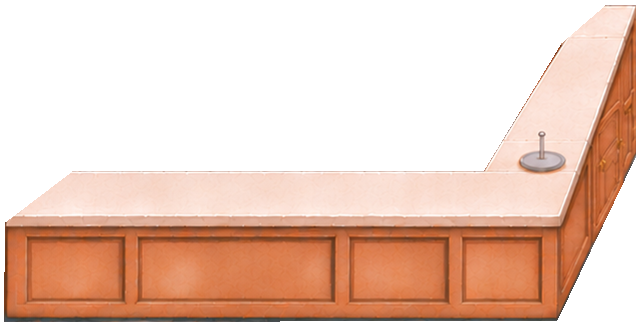
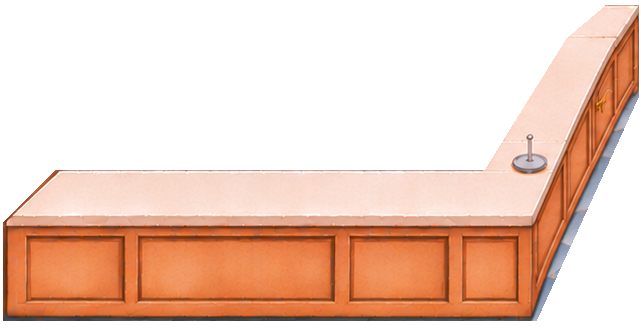
v2026-11-27-3 Suzhou restaurant release

Changed region(s): [[0.0, 0.0, 0.9984, 1.0], [0.8424, 0.1515, 0.8736, 0.2424], [0.8112, 0.2424, 0.8424, 0.3333]]

diff --git a/docs/index.html b/docs/index.html
@@ -1838,7 +1838,7 @@ if (typeof module !== 'undefined') module.exports = { iconSVG, fishSVG, FISH };
 
 </script>
 <script>
-const PENPEN_LAYOUT = {"version":1,"space":{"w":1280,"h":720},"source":{"image":"assets/09-母稿草稿/G-058/room_suzhou_level_spring.png","w":1813,"h":868,"crop":{"x":0,"y":0,"w":1813,"h":868}},"scene":{"width":1280,"height":613,"window":[342,53,579,183],"doorPatch":[955,16,269,416],"threshold":[[1010,321],[1174,395]],"walkArea":[[0,528],[83,423],[106,382],[188,282],[917,282],[973,311],[1000,280],[1169,274],[1175,345],[1202,410],[1280,452],[1280,613],[0,613]],"dance":[662,572],"windowSource":[480,67,830,266],"counterForeground":[16,427],"footClearance":6},"presets":{"two":["table.1","table.3"],"five":["table.1","table.2","table.3","table.4","table.5"]},"notes":"G-057 三后两前的室内桌位。方桌巾透视沿椭圆桌边。座位、椅背遮挡与端菜靠逻辑坐标；墙、两排柜体与假门依原首店操作。","items":[{"id":"table.1","kind":"table","anchor":[563,459],"seats":2,"scale":0.96,"hit":{"x":507,"y":405,"w":112,"h":121},"stand":[[634,463]],"footprint":[[528.76,445],[597.24,445],[605.24,473],[605.24,504],[598.24,513],[527.76,513],[520.76,504],[520.76,473]],"seatPos":[[587,447.48],[536.12,490.68]],"chip":[614,417]},{"id":"table.2","kind":"table","anchor":[785,459],"seats":2,"scale":0.96,"hit":{"x":729,"y":405,"w":112,"h":121},"stand":[[852,470]],"footprint":[[750.76,445],[819.24,445],[827.24,473],[827.24,504],[820.24,513],[749.76,513],[742.76,504],[742.76,473]],"seatPos":[[761,447.48],[811.88,490.68]],"chip":[836,417]},{"id":"table.3","kind":"table","anchor":[855,314],"seats":4,"scale":0.92,"hit":{"x":773,"y":260,"w":164,"h":121},"stand":[[961,340]],"footprint":[[797.68,300],[912.32,300],[920.32,328],[920.32,359],[913.32,368],[796.68,368],[789.68,359],[789.68,328]],"seatPos":[[822.8,303.88],[887.2,303.88],[812.68,345.28],[897.32,345.28]],"chip":[922,272]},{"id":"table.4","kind":"table","anchor":[604,314],"seats":4,"scale":0.92,"hit":{"x":522,"y":260,"w":164,"h":121},"stand":[[713,340]],"footprint":[[546.68,300],[661.32,300],[669.32,328],[669.32,359],[662.32,368],[545.68,368],[538.68,359],[538.68,328]],"seatPos":[[571.8,303.88],[636.2,303.88],[561.68,345.28],[646.32,345.28]],"chip":[671,272]},{"id":"table.5","kind":"table","anchor":[1000,459],"seats":2,"scale":0.96,"hit":{"x":944,"y":405,"w":112,"h":121},"stand":[[1063,489]],"footprint":[[965.76,445],[1034.24,445],[1042.24,473],[1042.24,504],[1035.24,513],[964.76,513],[957.76,504],[957.76,473]],"seatPos":[[976,447.48],[1026.88,490.68]],"chip":[1051,417]},{"id":"queue.1","kind":"queue","anchor":[1190,445],"stand":[[1130,462]],"zone":"inside"},{"id":"queue.2","kind":"queue","anchor":[1230,475],"stand":[[1170,491]],"zone":"inside"},{"id":"queue.3","kind":"queue","anchor":[1205,519],"stand":[[1145,523]],"zone":"inside"},{"id":"queue.4","kind":"queue","anchor":[1240,559],"stand":[[1182,559]],"zone":"inside"},{"id":"queue.5","kind":"queue","anchor":[1150,311],"stand":[[1110,338]],"zone":"outside"},{"id":"queue.6","kind":"queue","anchor":[1100,300],"stand":[[1070,333]],"zone":"outside"},{"id":"door","kind":"door","anchor":[1070,324],"stand":[[1070,324]],"hit":{"x":972,"y":126,"w":223,"h":275}},{"id":"stove.wok","kind":"stove","anchor":[218,319],"hit":{"x":194,"y":293,"w":48,"h":42}},{"id":"stove.pot","kind":"stove","anchor":[282,319],"hit":{"x":258,"y":293,"w":48,"h":42}},{"id":"stove.steamer","kind":"stove","anchor":[345,319],"hit":{"x":321,"y":293,"w":48,"h":42}},{"id":"stove.clay","kind":"stove","anchor":[406,319],"hit":{"x":382,"y":293,"w":48,"h":42}},{"id":"chef","kind":"chef","anchor":[213,430],"stand":[[213,430]],"range":[[149,430],[367,430]],"wash":[150,430]},{"id":"pass","kind":"pass","anchor":[413,367],"stand":[[488,410]],"slots":[[430,337],[423,351],[416,367],[409,385],[401,400]],"hit":{"x":370,"y":306,"w":96,"h":127},"label":[434,320]},{"id":"sink","kind":"sink","anchor":[146,313],"stand":[[190,310]],"hit":{"x":110,"y":275,"w":74,"h":68}},{"id":"rail","kind":"rail","anchor":[390,420],"spike":[390,420],"hit":{"x":363,"y":393,"w":70,"h":65}},{"id":"menurack","kind":"menurack","anchor":[955,175],"hit":{"x":926,"y":159,"w":65,"h":127}},{"id":"tea","kind":"tea","anchor":[290,451],"stand":[[278,562]],"hit":{"x":250,"y":409,"w":77,"h":63}},{"id":"teacart","kind":"tea","anchor":[215,451],"stand":[[190,563]],"hit":{"x":126,"y":406,"w":128,"h":71},"needs":["tea","snack"]},{"id":"idle.penpen","kind":"idle","anchor":[681,393],"stand":[[681,393]]},{"id":"staff.laoer","kind":"staff","anchor":[717,513],"stand":[[717,513]],"rest":[702,570]},{"id":"staff.mimi","kind":"staff","anchor":[1110,569],"stand":[[1110,569]],"rest":[1090,585]},{"id":"wall.heater","kind":"wall","season":"winter","footprint":[[345,282],[404,282],[404,298],[345,298]]},{"id":"wall.kitchen","kind":"wall","footprint":[[104,323],[461,323],[464,407],[406,529],[13,529],[13,475],[75,426],[105,385]]}]};
+const PENPEN_LAYOUT = {"version":1,"space":{"w":1280,"h":720},"source":{"image":"assets/09-母稿草稿/G-059/room_suzhou_counter_spring.png","w":1813,"h":868,"crop":{"x":0,"y":0,"w":1813,"h":868}},"scene":{"width":1280,"height":613,"window":[342,53,579,183],"doorPatch":[955,16,269,416],"threshold":[[1010,321],[1174,395]],"walkArea":[[0,528],[83,423],[106,382],[188,282],[917,282],[973,311],[1000,280],[1169,274],[1175,345],[1202,410],[1280,452],[1280,613],[0,613]],"dance":[662,572],"windowSource":[480,67,830,266],"counterForeground":[16,427],"footClearance":6,"paintRevision":"g059"},"presets":{"two":["table.1","table.3"],"five":["table.1","table.2","table.3","table.4","table.5"]},"notes":"G-057 三后两前的室内桌位。方桌巾透视沿椭圆桌边。座位、椅背遮挡与端菜靠逻辑坐标；墙、两排柜体与假门依原首店操作。","items":[{"id":"table.1","kind":"table","anchor":[563,459],"seats":2,"scale":0.96,"hit":{"x":507,"y":405,"w":112,"h":121},"stand":[[634,463]],"footprint":[[528.76,445],[597.24,445],[605.24,473],[605.24,504],[598.24,513],[527.76,513],[520.76,504],[520.76,473]],"seatPos":[[587,447.48],[536.12,490.68]],"chip":[614,417]},{"id":"table.2","kind":"table","anchor":[785,459],"seats":2,"scale":0.96,"hit":{"x":729,"y":405,"w":112,"h":121},"stand":[[852,470]],"footprint":[[750.76,445],[819.24,445],[827.24,473],[827.24,504],[820.24,513],[749.76,513],[742.76,504],[742.76,473]],"seatPos":[[761,447.48],[811.88,490.68]],"chip":[836,417]},{"id":"table.3","kind":"table","anchor":[855,314],"seats":4,"scale":0.92,"hit":{"x":773,"y":260,"w":164,"h":121},"stand":[[961,340]],"footprint":[[797.68,300],[912.32,300],[920.32,328],[920.32,359],[913.32,368],[796.68,368],[789.68,359],[789.68,328]],"seatPos":[[822.8,303.88],[887.2,303.88],[812.68,345.28],[897.32,345.28]],"chip":[922,272]},{"id":"table.4","kind":"table","anchor":[604,314],"seats":4,"scale":0.92,"hit":{"x":522,"y":260,"w":164,"h":121},"stand":[[713,340]],"footprint":[[546.68,300],[661.32,300],[669.32,328],[669.32,359],[662.32,368],[545.68,368],[538.68,359],[538.68,328]],"seatPos":[[571.8,303.88],[636.2,303.88],[561.68,345.28],[646.32,345.28]],"chip":[671,272]},{"id":"table.5","kind":"table","anchor":[1000,459],"seats":2,"scale":0.96,"hit":{"x":944,"y":405,"w":112,"h":121},"stand":[[1063,489]],"footprint":[[965.76,445],[1034.24,445],[1042.24,473],[1042.24,504],[1035.24,513],[964.76,513],[957.76,504],[957.76,473]],"seatPos":[[976,447.48],[1026.88,490.68]],"chip":[1051,417]},{"id":"queue.1","kind":"queue","anchor":[1190,445],"stand":[[1130,462]],"zone":"inside"},{"id":"queue.2","kind":"queue","anchor":[1230,475],"stand":[[1170,491]],"zone":"inside"},{"id":"queue.3","kind":"queue","anchor":[1205,519],"stand":[[1145,523]],"zone":"inside"},{"id":"queue.4","kind":"queue","anchor":[1240,559],"stand":[[1182,559]],"zone":"inside"},{"id":"queue.5","kind":"queue","anchor":[1150,311],"stand":[[1110,338]],"zone":"outside"},{"id":"queue.6","kind":"queue","anchor":[1100,300],"stand":[[1070,333]],"zone":"outside"},{"id":"door","kind":"door","anchor":[1070,324],"stand":[[1070,324]],"hit":{"x":972,"y":126,"w":223,"h":275}},{"id":"stove.wok","kind":"stove","anchor":[218,319],"hit":{"x":194,"y":293,"w":48,"h":42}},{"id":"stove.pot","kind":"stove","anchor":[282,319],"hit":{"x":258,"y":293,"w":48,"h":42}},{"id":"stove.steamer","kind":"stove","anchor":[345,319],"hit":{"x":321,"y":293,"w":48,"h":42}},{"id":"stove.clay","kind":"stove","anchor":[406,319],"hit":{"x":382,"y":293,"w":48,"h":42}},{"id":"chef","kind":"chef","anchor":[213,430],"stand":[[213,430]],"range":[[149,430],[367,430]],"wash":[150,430]},{"id":"pass","kind":"pass","anchor":[413,367],"stand":[[488,410]],"slots":[[430,337],[423,351],[416,367],[409,385],[401,400]],"hit":{"x":370,"y":306,"w":96,"h":127},"label":[434,320]},{"id":"sink","kind":"sink","anchor":[146,313],"stand":[[190,310]],"hit":{"x":110,"y":275,"w":74,"h":68}},{"id":"rail","kind":"rail","anchor":[390,420],"spike":[390,420],"hit":{"x":363,"y":393,"w":70,"h":65}},{"id":"menurack","kind":"menurack","anchor":[955,175],"hit":{"x":926,"y":159,"w":65,"h":127}},{"id":"tea","kind":"tea","anchor":[290,451],"stand":[[278,562]],"hit":{"x":250,"y":409,"w":77,"h":63}},{"id":"teacart","kind":"tea","anchor":[215,451],"stand":[[190,563]],"hit":{"x":126,"y":406,"w":128,"h":71},"needs":["tea","snack"]},{"id":"idle.penpen","kind":"idle","anchor":[681,393],"stand":[[681,393]]},{"id":"staff.laoer","kind":"staff","anchor":[717,513],"stand":[[717,513]],"rest":[702,570]},{"id":"staff.mimi","kind":"staff","anchor":[1110,569],"stand":[[1110,569]],"rest":[1090,585]},{"id":"wall.heater","kind":"wall","season":"winter","footprint":[[345,282],[404,282],[404,298],[345,298]]},{"id":"wall.kitchen","kind":"wall","footprint":[[104,323],[461,323],[462,368],[391,529],[13,529],[13,475],[75,426],[105,385]]}]};
 const PENPEN_GREYBOX = false;
 const PENPEN_SUZHOU = true;
 const PENPEN_SUZHOU_PREVIEW = false;
@@ -3341,10 +3341,12 @@ const PENPEN_SUZHOU_PREVIEW = false;
   }
   const ART_ROOM = () => ok(A('room_courtyard'));
   const GARDEN_ART = new Map();
+  const GARDEN_ROOM_PAINT = new Set(['spring', 'winter', 'counter_spring', 'counter_winter', 'counter_rear_spring', 'counter_rear_winter']);
   function gardenArt(name, extension = 'png') {
     if (!GARDEN_ART.has(name)) {
       const im = new Image();
-      im.src = 'assets/suzhou/' + name + '.' + extension;
+      const version = GARDEN_ROOM_PAINT.has(name) ? LAYOUT?.scene.paintRevision : null;
+      im.src = 'assets/suzhou/' + name + '.' + extension + (version ? '?v=' + version : '');
       GARDEN_ART.set(name, im);
     }
     return GARDEN_ART.get(name);

diff --git a/docs/suzhou.html b/docs/suzhou.html
@@ -1838,7 +1838,7 @@ if (typeof module !== 'undefined') module.exports = { iconSVG, fishSVG, FISH };
 
 </script>
 <script>
-const PENPEN_LAYOUT = {"version":1,"space":{"w":1280,"h":720},"source":{"image":"assets/09-母稿草稿/G-058/room_suzhou_level_spring.png","w":1813,"h":868,"crop":{"x":0,"y":0,"w":1813,"h":868}},"scene":{"width":1280,"height":613,"window":[342,53,579,183],"doorPatch":[955,16,269,416],"threshold":[[1010,321],[1174,395]],"walkArea":[[0,528],[83,423],[106,382],[188,282],[917,282],[973,311],[1000,280],[1169,274],[1175,345],[1202,410],[1280,452],[1280,613],[0,613]],"dance":[662,572],"windowSource":[480,67,830,266],"counterForeground":[16,427],"footClearance":6},"presets":{"two":["table.1","table.3"],"five":["table.1","table.2","table.3","table.4","table.5"]},"notes":"G-057 三后两前的室内桌位。方桌巾透视沿椭圆桌边。座位、椅背遮挡与端菜靠逻辑坐标；墙、两排柜体与假门依原首店操作。","items":[{"id":"table.1","kind":"table","anchor":[563,459],"seats":2,"scale":0.96,"hit":{"x":507,"y":405,"w":112,"h":121},"stand":[[634,463]],"footprint":[[528.76,445],[597.24,445],[605.24,473],[605.24,504],[598.24,513],[527.76,513],[520.76,504],[520.76,473]],"seatPos":[[587,447.48],[536.12,490.68]],"chip":[614,417]},{"id":"table.2","kind":"table","anchor":[785,459],"seats":2,"scale":0.96,"hit":{"x":729,"y":405,"w":112,"h":121},"stand":[[852,470]],"footprint":[[750.76,445],[819.24,445],[827.24,473],[827.24,504],[820.24,513],[749.76,513],[742.76,504],[742.76,473]],"seatPos":[[761,447.48],[811.88,490.68]],"chip":[836,417]},{"id":"table.3","kind":"table","anchor":[855,314],"seats":4,"scale":0.92,"hit":{"x":773,"y":260,"w":164,"h":121},"stand":[[961,340]],"footprint":[[797.68,300],[912.32,300],[920.32,328],[920.32,359],[913.32,368],[796.68,368],[789.68,359],[789.68,328]],"seatPos":[[822.8,303.88],[887.2,303.88],[812.68,345.28],[897.32,345.28]],"chip":[922,272]},{"id":"table.4","kind":"table","anchor":[604,314],"seats":4,"scale":0.92,"hit":{"x":522,"y":260,"w":164,"h":121},"stand":[[713,340]],"footprint":[[546.68,300],[661.32,300],[669.32,328],[669.32,359],[662.32,368],[545.68,368],[538.68,359],[538.68,328]],"seatPos":[[571.8,303.88],[636.2,303.88],[561.68,345.28],[646.32,345.28]],"chip":[671,272]},{"id":"table.5","kind":"table","anchor":[1000,459],"seats":2,"scale":0.96,"hit":{"x":944,"y":405,"w":112,"h":121},"stand":[[1063,489]],"footprint":[[965.76,445],[1034.24,445],[1042.24,473],[1042.24,504],[1035.24,513],[964.76,513],[957.76,504],[957.76,473]],"seatPos":[[976,447.48],[1026.88,490.68]],"chip":[1051,417]},{"id":"queue.1","kind":"queue","anchor":[1190,445],"stand":[[1130,462]],"zone":"inside"},{"id":"queue.2","kind":"queue","anchor":[1230,475],"stand":[[1170,491]],"zone":"inside"},{"id":"queue.3","kind":"queue","anchor":[1205,519],"stand":[[1145,523]],"zone":"inside"},{"id":"queue.4","kind":"queue","anchor":[1240,559],"stand":[[1182,559]],"zone":"inside"},{"id":"queue.5","kind":"queue","anchor":[1150,311],"stand":[[1110,338]],"zone":"outside"},{"id":"queue.6","kind":"queue","anchor":[1100,300],"stand":[[1070,333]],"zone":"outside"},{"id":"door","kind":"door","anchor":[1070,324],"stand":[[1070,324]],"hit":{"x":972,"y":126,"w":223,"h":275}},{"id":"stove.wok","kind":"stove","anchor":[218,319],"hit":{"x":194,"y":293,"w":48,"h":42}},{"id":"stove.pot","kind":"stove","anchor":[282,319],"hit":{"x":258,"y":293,"w":48,"h":42}},{"id":"stove.steamer","kind":"stove","anchor":[345,319],"hit":{"x":321,"y":293,"w":48,"h":42}},{"id":"stove.clay","kind":"stove","anchor":[406,319],"hit":{"x":382,"y":293,"w":48,"h":42}},{"id":"chef","kind":"chef","anchor":[213,430],"stand":[[213,430]],"range":[[149,430],[367,430]],"wash":[150,430]},{"id":"pass","kind":"pass","anchor":[413,367],"stand":[[488,410]],"slots":[[430,337],[423,351],[416,367],[409,385],[401,400]],"hit":{"x":370,"y":306,"w":96,"h":127},"label":[434,320]},{"id":"sink","kind":"sink","anchor":[146,313],"stand":[[190,310]],"hit":{"x":110,"y":275,"w":74,"h":68}},{"id":"rail","kind":"rail","anchor":[390,420],"spike":[390,420],"hit":{"x":363,"y":393,"w":70,"h":65}},{"id":"menurack","kind":"menurack","anchor":[955,175],"hit":{"x":926,"y":159,"w":65,"h":127}},{"id":"tea","kind":"tea","anchor":[290,451],"stand":[[278,562]],"hit":{"x":250,"y":409,"w":77,"h":63}},{"id":"teacart","kind":"tea","anchor":[215,451],"stand":[[190,563]],"hit":{"x":126,"y":406,"w":128,"h":71},"needs":["tea","snack"]},{"id":"idle.penpen","kind":"idle","anchor":[681,393],"stand":[[681,393]]},{"id":"staff.laoer","kind":"staff","anchor":[717,513],"stand":[[717,513]],"rest":[702,570]},{"id":"staff.mimi","kind":"staff","anchor":[1110,569],"stand":[[1110,569]],"rest":[1090,585]},{"id":"wall.heater","kind":"wall","season":"winter","footprint":[[345,282],[404,282],[404,298],[345,298]]},{"id":"wall.kitchen","kind":"wall","footprint":[[104,323],[461,323],[464,407],[406,529],[13,529],[13,475],[75,426],[105,385]]}]};
+const PENPEN_LAYOUT = {"version":1,"space":{"w":1280,"h":720},"source":{"image":"assets/09-母稿草稿/G-059/room_suzhou_counter_spring.png","w":1813,"h":868,"crop":{"x":0,"y":0,"w":1813,"h":868}},"scene":{"width":1280,"height":613,"window":[342,53,579,183],"doorPatch":[955,16,269,416],"threshold":[[1010,321],[1174,395]],"walkArea":[[0,528],[83,423],[106,382],[188,282],[917,282],[973,311],[1000,280],[1169,274],[1175,345],[1202,410],[1280,452],[1280,613],[0,613]],"dance":[662,572],"windowSource":[480,67,830,266],"counterForeground":[16,427],"footClearance":6,"paintRevision":"g059"},"presets":{"two":["table.1","table.3"],"five":["table.1","table.2","table.3","table.4","table.5"]},"notes":"G-057 三后两前的室内桌位。方桌巾透视沿椭圆桌边。座位、椅背遮挡与端菜靠逻辑坐标；墙、两排柜体与假门依原首店操作。","items":[{"id":"table.1","kind":"table","anchor":[563,459],"seats":2,"scale":0.96,"hit":{"x":507,"y":405,"w":112,"h":121},"stand":[[634,463]],"footprint":[[528.76,445],[597.24,445],[605.24,473],[605.24,504],[598.24,513],[527.76,513],[520.76,504],[520.76,473]],"seatPos":[[587,447.48],[536.12,490.68]],"chip":[614,417]},{"id":"table.2","kind":"table","anchor":[785,459],"seats":2,"scale":0.96,"hit":{"x":729,"y":405,"w":112,"h":121},"stand":[[852,470]],"footprint":[[750.76,445],[819.24,445],[827.24,473],[827.24,504],[820.24,513],[749.76,513],[742.76,504],[742.76,473]],"seatPos":[[761,447.48],[811.88,490.68]],"chip":[836,417]},{"id":"table.3","kind":"table","anchor":[855,314],"seats":4,"scale":0.92,"hit":{"x":773,"y":260,"w":164,"h":121},"stand":[[961,340]],"footprint":[[797.68,300],[912.32,300],[920.32,328],[920.32,359],[913.32,368],[796.68,368],[789.68,359],[789.68,328]],"seatPos":[[822.8,303.88],[887.2,303.88],[812.68,345.28],[897.32,345.28]],"chip":[922,272]},{"id":"table.4","kind":"table","anchor":[604,314],"seats":4,"scale":0.92,"hit":{"x":522,"y":260,"w":164,"h":121},"stand":[[713,340]],"footprint":[[546.68,300],[661.32,300],[669.32,328],[669.32,359],[662.32,368],[545.68,368],[538.68,359],[538.68,328]],"seatPos":[[571.8,303.88],[636.2,303.88],[561.68,345.28],[646.32,345.28]],"chip":[671,272]},{"id":"table.5","kind":"table","anchor":[1000,459],"seats":2,"scale":0.96,"hit":{"x":944,"y":405,"w":112,"h":121},"stand":[[1063,489]],"footprint":[[965.76,445],[1034.24,445],[1042.24,473],[1042.24,504],[1035.24,513],[964.76,513],[957.76,504],[957.76,473]],"seatPos":[[976,447.48],[1026.88,490.68]],"chip":[1051,417]},{"id":"queue.1","kind":"queue","anchor":[1190,445],"stand":[[1130,462]],"zone":"inside"},{"id":"queue.2","kind":"queue","anchor":[1230,475],"stand":[[1170,491]],"zone":"inside"},{"id":"queue.3","kind":"queue","anchor":[1205,519],"stand":[[1145,523]],"zone":"inside"},{"id":"queue.4","kind":"queue","anchor":[1240,559],"stand":[[1182,559]],"zone":"inside"},{"id":"queue.5","kind":"queue","anchor":[1150,311],"stand":[[1110,338]],"zone":"outside"},{"id":"queue.6","kind":"queue","anchor":[1100,300],"stand":[[1070,333]],"zone":"outside"},{"id":"door","kind":"door","anchor":[1070,324],"stand":[[1070,324]],"hit":{"x":972,"y":126,"w":223,"h":275}},{"id":"stove.wok","kind":"stove","anchor":[218,319],"hit":{"x":194,"y":293,"w":48,"h":42}},{"id":"stove.pot","kind":"stove","anchor":[282,319],"hit":{"x":258,"y":293,"w":48,"h":42}},{"id":"stove.steamer","kind":"stove","anchor":[345,319],"hit":{"x":321,"y":293,"w":48,"h":42}},{"id":"stove.clay","kind":"stove","anchor":[406,319],"hit":{"x":382,"y":293,"w":48,"h":42}},{"id":"chef","kind":"chef","anchor":[213,430],"stand":[[213,430]],"range":[[149,430],[367,430]],"wash":[150,430]},{"id":"pass","kind":"pass","anchor":[413,367],"stand":[[488,410]],"slots":[[430,337],[423,351],[416,367],[409,385],[401,400]],"hit":{"x":370,"y":306,"w":96,"h":127},"label":[434,320]},{"id":"sink","kind":"sink","anchor":[146,313],"stand":[[190,310]],"hit":{"x":110,"y":275,"w":74,"h":68}},{"id":"rail","kind":"rail","anchor":[390,420],"spike":[390,420],"hit":{"x":363,"y":393,"w":70,"h":65}},{"id":"menurack","kind":"menurack","anchor":[955,175],"hit":{"x":926,"y":159,"w":65,"h":127}},{"id":"tea","kind":"tea","anchor":[290,451],"stand":[[278,562]],"hit":{"x":250,"y":409,"w":77,"h":63}},{"id":"teacart","kind":"tea","anchor":[215,451],"stand":[[190,563]],"hit":{"x":126,"y":406,"w":128,"h":71},"needs":["tea","snack"]},{"id":"idle.penpen","kind":"idle","anchor":[681,393],"stand":[[681,393]]},{"id":"staff.laoer","kind":"staff","anchor":[717,513],"stand":[[717,513]],"rest":[702,570]},{"id":"staff.mimi","kind":"staff","anchor":[1110,569],"stand":[[1110,569]],"rest":[1090,585]},{"id":"wall.heater","kind":"wall","season":"winter","footprint":[[345,282],[404,282],[404,298],[345,298]]},{"id":"wall.kitchen","kind":"wall","footprint":[[104,323],[461,323],[462,368],[391,529],[13,529],[13,475],[75,426],[105,385]]}]};
 const PENPEN_GREYBOX = false;
 const PENPEN_SUZHOU = true;
 const PENPEN_SUZHOU_PREVIEW = true;
@@ -3341,10 +3341,12 @@ const PENPEN_SUZHOU_PREVIEW = true;
   }
   const ART_ROOM = () => ok(A('room_courtyard'));
   const GARDEN_ART = new Map();
+  const GARDEN_ROOM_PAINT = new Set(['spring', 'winter', 'counter_spring', 'counter_winter', 'counter_rear_spring', 'counter_rear_winter']);
   function gardenArt(name, extension = 'png') {
     if (!GARDEN_ART.has(name)) {
       const im = new Image();
-      im.src = 'assets/suzhou/' + name + '.' + extension;
+      const version = GARDEN_ROOM_PAINT.has(name) ? LAYOUT?.scene.paintRevision : null;
+      im.src = 'assets/suzhou/' + name + '.' + extension + (version ? '?v=' + version : '');
       GARDEN_ART.set(name, im);
     }
     return GARDEN_ART.get(name);

diff --git a/docs/greybox.html b/docs/greybox.html
@@ -3341,10 +3341,12 @@ const PENPEN_SUZHOU_PREVIEW = false;
   }
   const ART_ROOM = () => ok(A('room_courtyard'));
   const GARDEN_ART = new Map();
+  const GARDEN_ROOM_PAINT = new Set(['spring', 'winter', 'counter_spring', 'counter_winter', 'counter_rear_spring', 'counter_rear_winter']);
   function gardenArt(name, extension = 'png') {
     if (!GARDEN_ART.has(name)) {
       const im = new Image();
-      im.src = 'assets/suzhou/' + name + '.' + extension;
+      const version = GARDEN_ROOM_PAINT.has(name) ? LAYOUT?.scene.paintRevision : null;
+      im.src = 'assets/suzhou/' + name + '.' + extension + (version ? '?v=' + version : '');
       GARDEN_ART.set(name, im);
     }
     return GARDEN_ART.get(name);

diff --git a/game/game.js b/game/game.js
@@ -1497,10 +1497,12 @@
   }
   const ART_ROOM = () => ok(A('room_courtyard'));
   const GARDEN_ART = new Map();
+  const GARDEN_ROOM_PAINT = new Set(['spring', 'winter', 'counter_spring', 'counter_winter', 'counter_rear_spring', 'counter_rear_winter']);
   function gardenArt(name, extension = 'png') {
     if (!GARDEN_ART.has(name)) {
       const im = new Image();
-      im.src = 'assets/suzhou/' + name + '.' + extension;
+      const version = GARDEN_ROOM_PAINT.has(name) ? LAYOUT?.scene.paintRevision : null;
+      im.src = 'assets/suzhou/' + name + '.' + extension + (version ? '?v=' + version : '');
       GARDEN_ART.set(name, im);
     }
     return GARDEN_ART.get(name);
